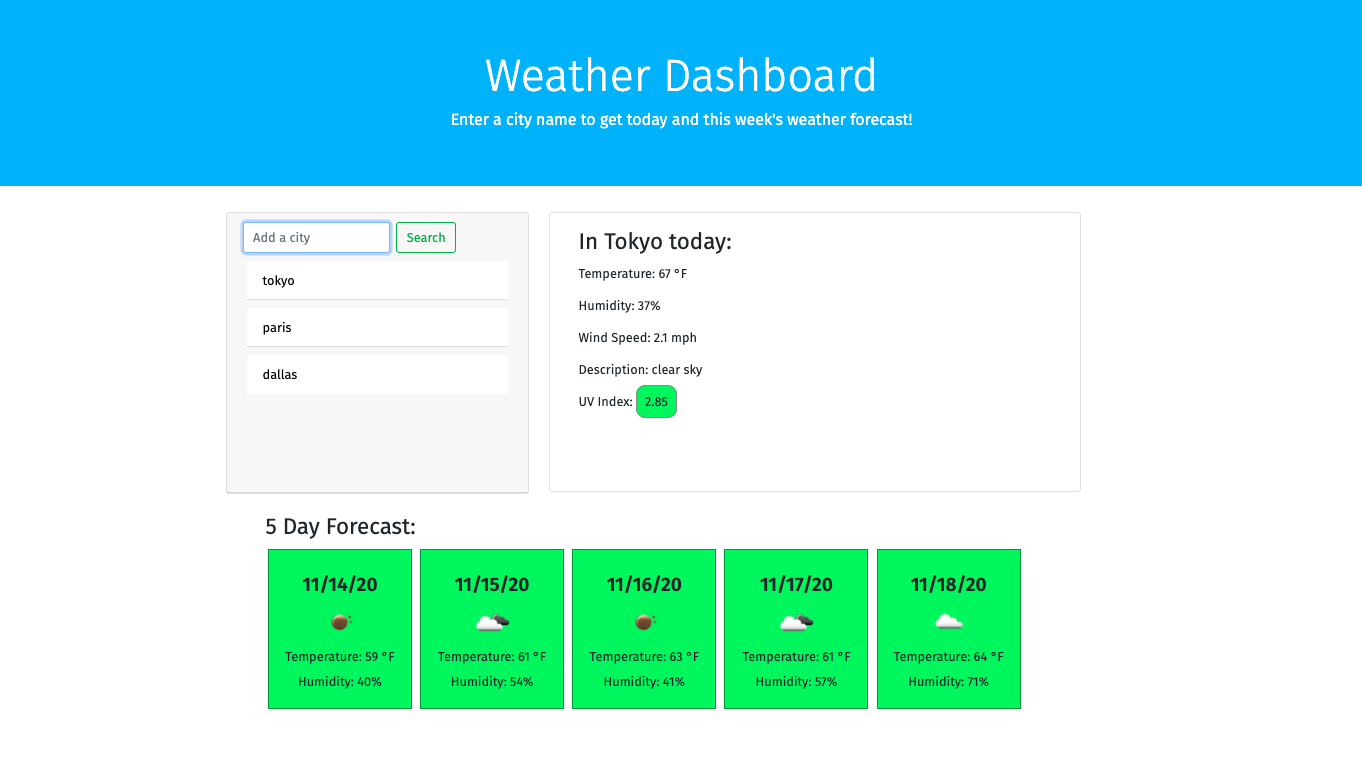
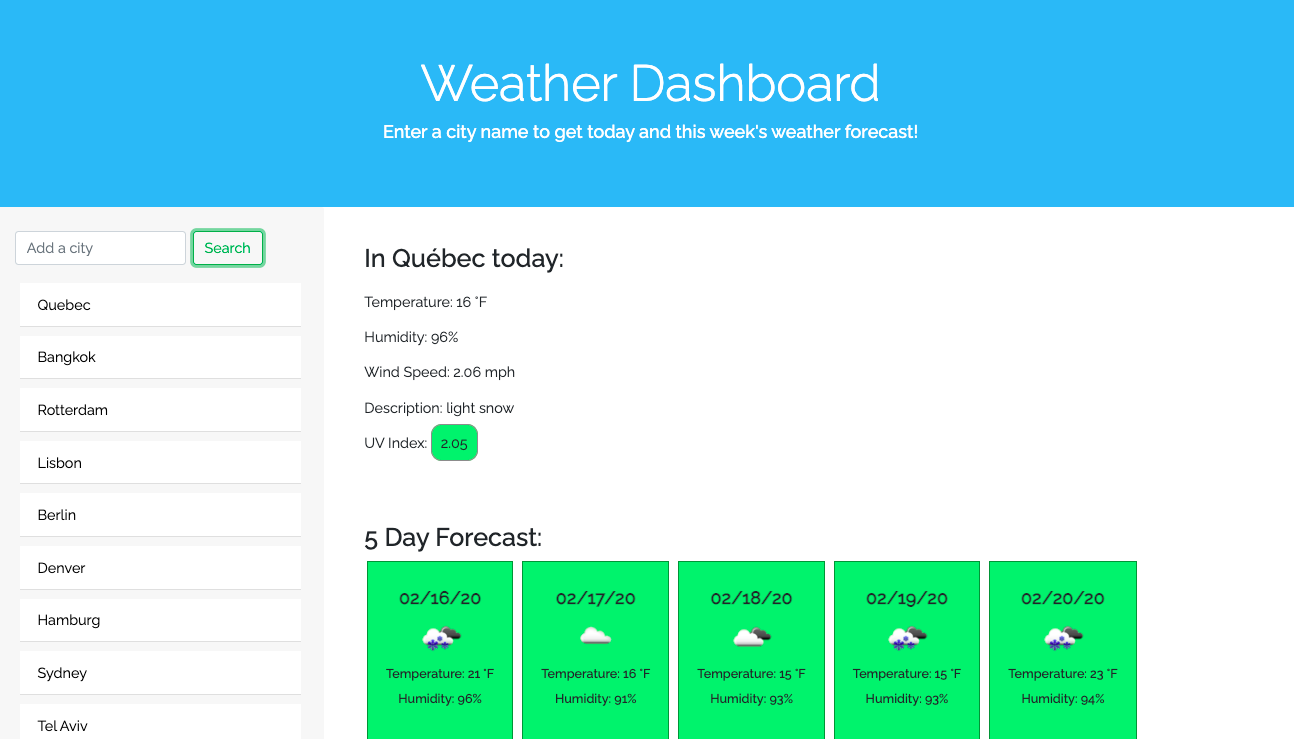
updatad readme

diff --git a/script.js b/script.js
@@ -57,7 +57,7 @@ $(document).ready(function(){
             var listCity = $('<button>');
             listCity.attr('class', 'list-group-item');
             listCity.text(inputValues[i]);
-            $('.list-group').append(listCity);
+            $('.list-group').prepend(listCity);
             listCity.attr('name', inputValues[i])
             listCity.attr('id', inputValues[i]);
             }

diff --git a/README.md b/README.md
@@ -16,13 +16,9 @@ One can access the app here: https://jesscru.github.io/weather-dashboard/
 
 ## Usage
 
-This app will provide the user with current and future weather data from the cities of their choosing. The current data inlcudes the temperature, humidity, UV index, wind speed, and description (such as overcast). The future data presents the next five days data of date, temperature, humidity, and an icon displaying the "description" (such as a sun icon for sunny). The user can input up to 5 cities and receive the data for each previous one by clicking the button of the city under the input field. When the user leaves and returns to the page, the last searched city will be the one whose data is displayed on the page. Upon intially visiting the site, the app looks like figure 1. Once the user enters a city or two, it looks like figure 2.
+This app will provide the user with current and future weather data from the cities of their choosing. The current data inlcudes the temperature, humidity, UV index, wind speed, and description (such as overcast). The future data presents the next five days data of date, temperature, humidity, and an icon displaying the "description" (such as a sun icon for sunny). The user can input up to 5 cities and receive the data for each previous one by clicking the button of the city under the input field. When the user leaves and returns to the page, the last searched city will be the one whose data is displayed on the page. The following is an example of the user's view after searching a number of cities.
 
-Figure 1:
-![empty page](./images/page-no-local-storage.png)
-
-Figure 2: 
-![page with cities](./images/page-with-weather-data.png)
+![page with previously serached cities](./images/page-with-weather-data.png)
 
 
 ## Credits
